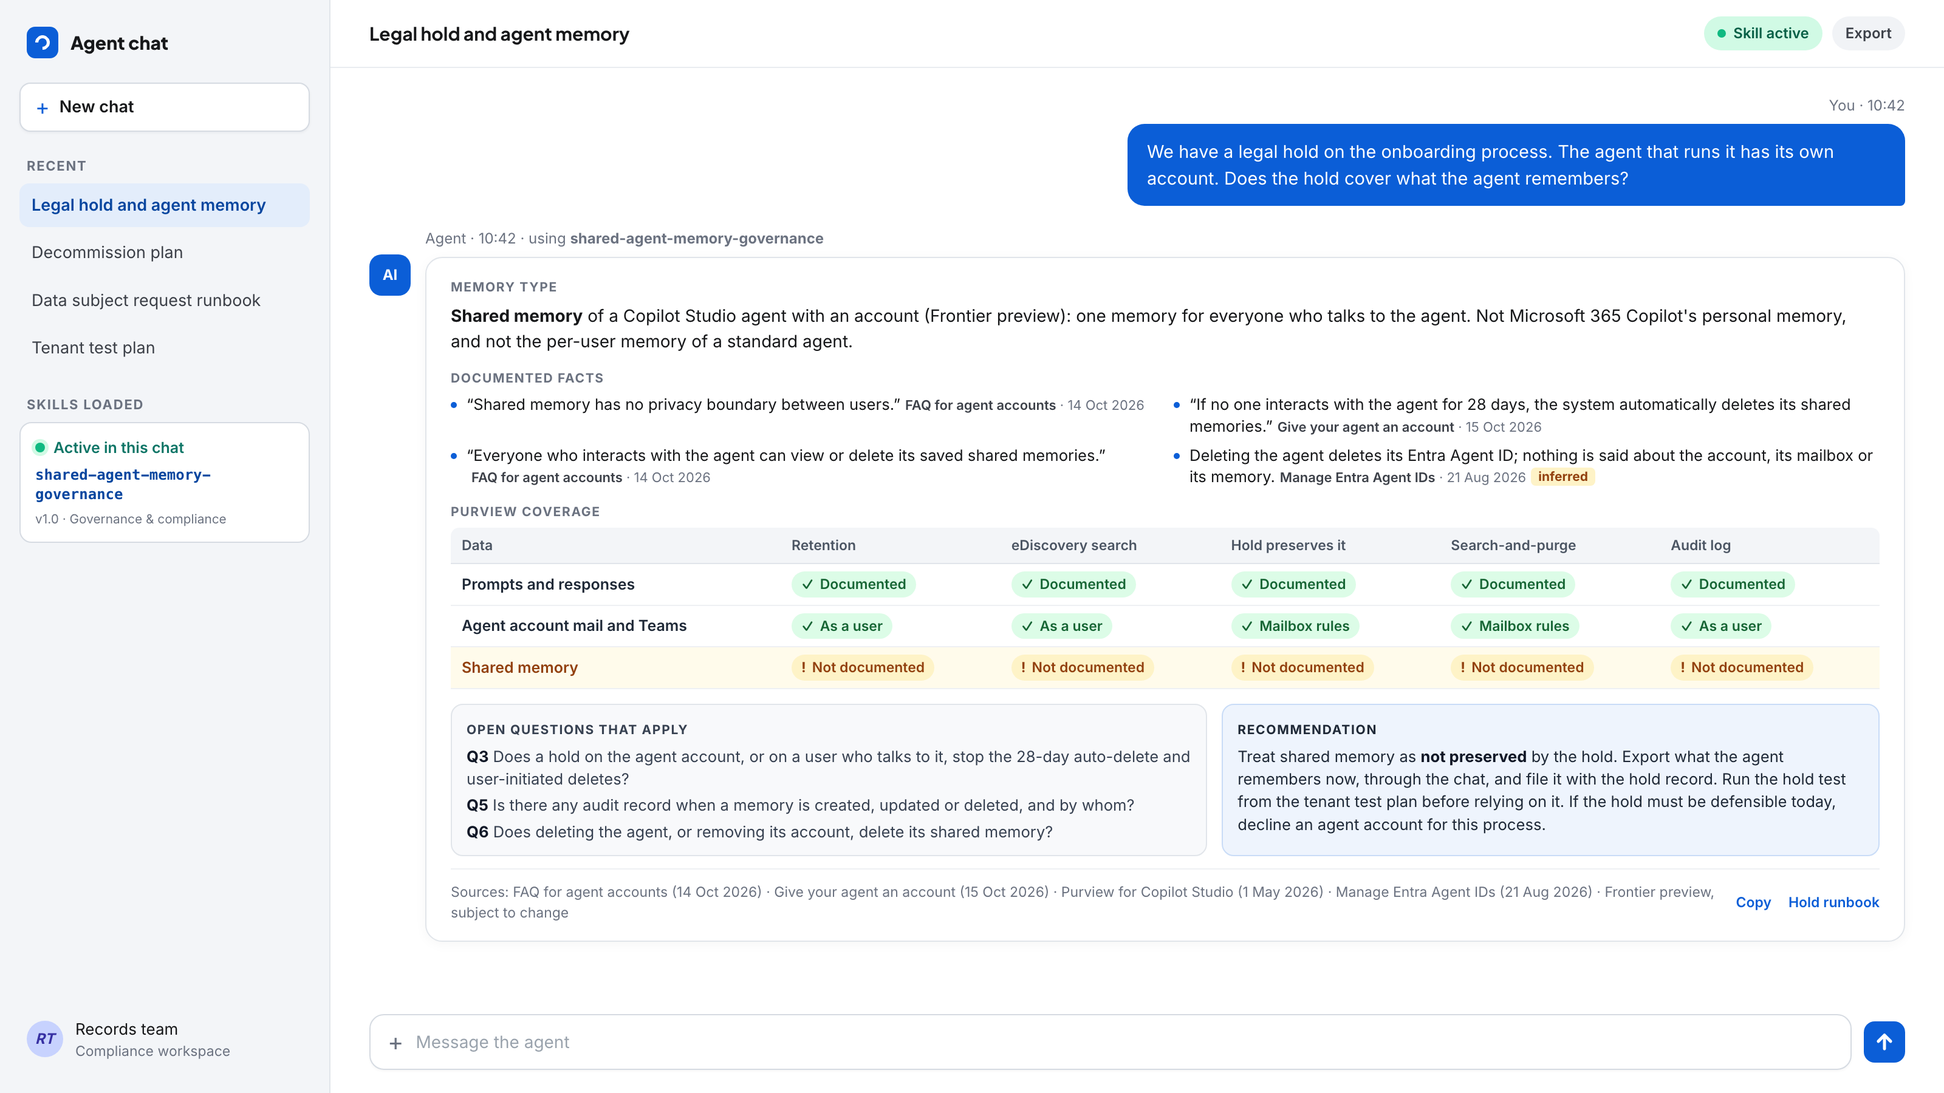
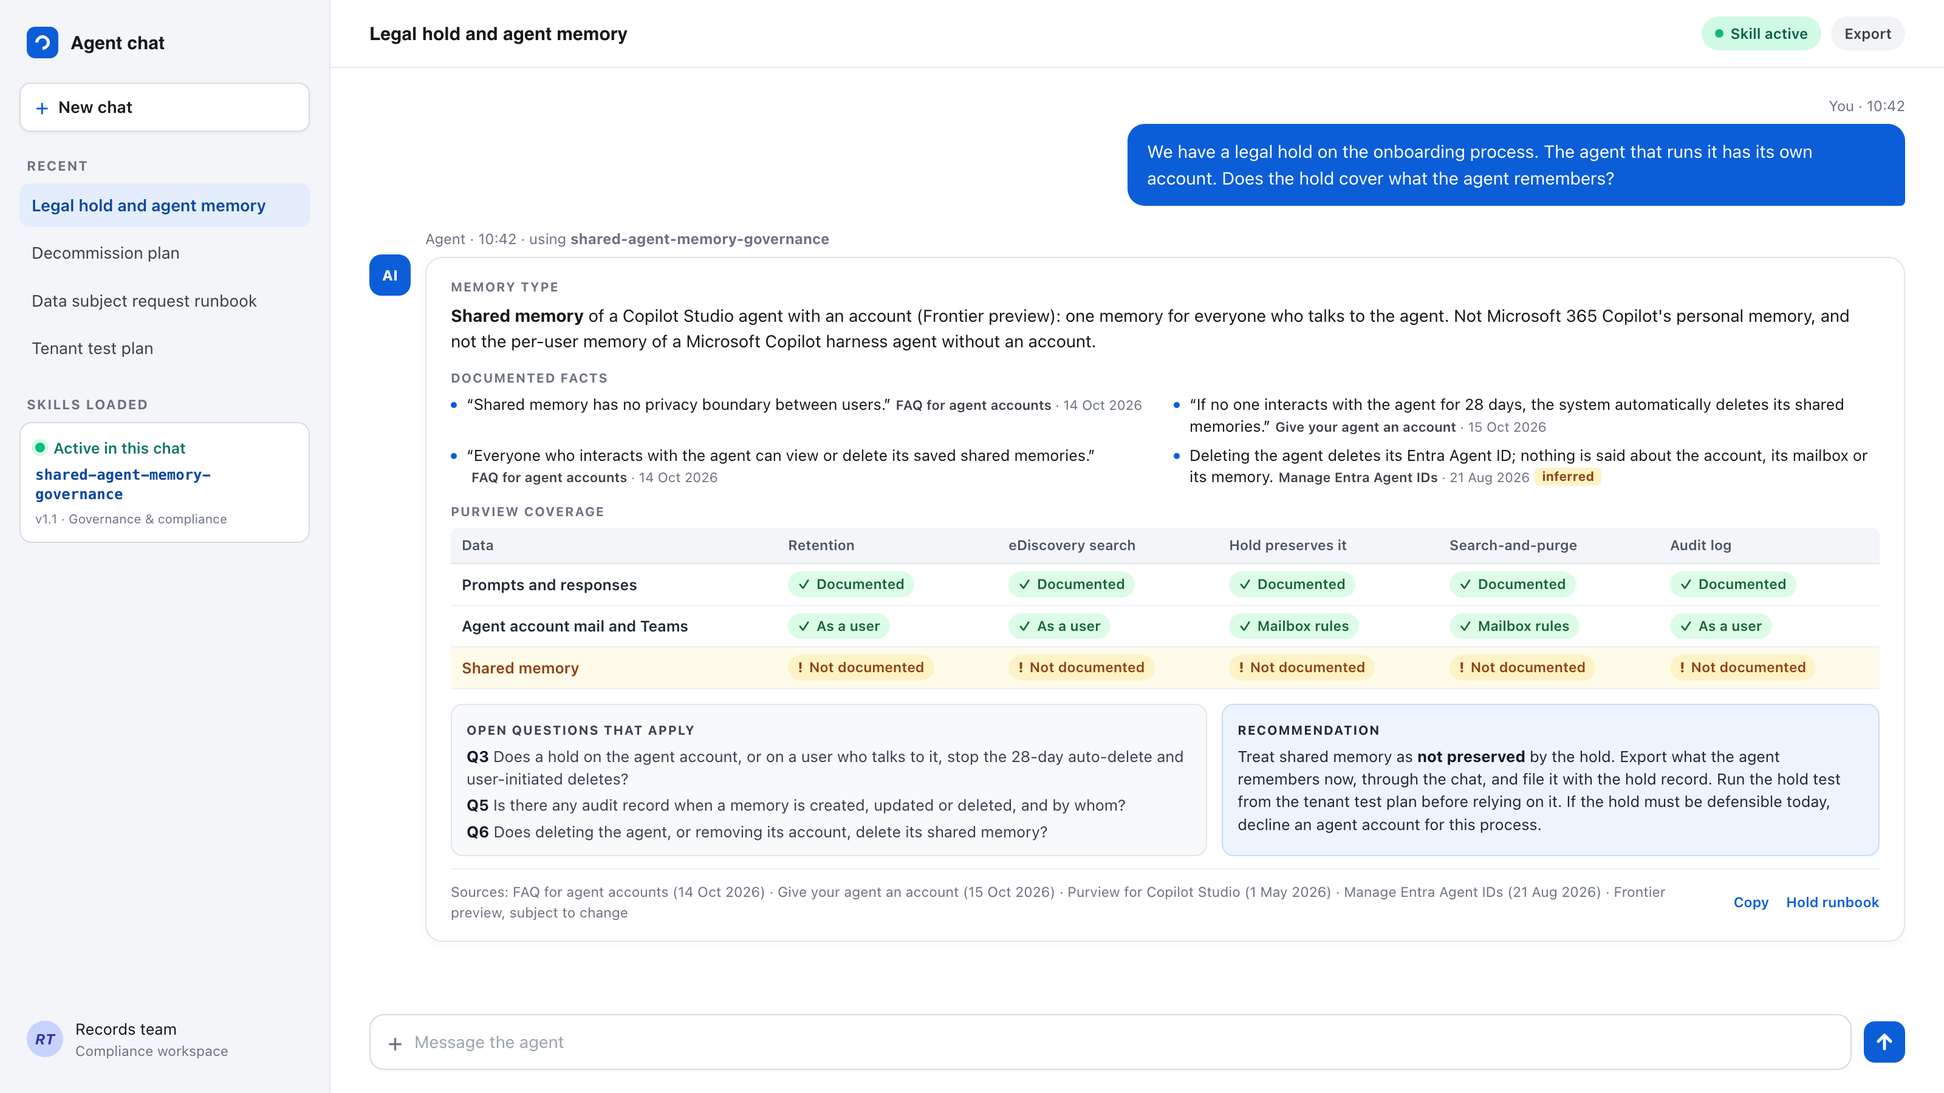
shared-agent-memory-governance 1.1: Microsoft Copilot harness rename
The GitHub Copilot harness is now the Microsoft Copilot harness (Microsoft Copilot Studio blog, 28 Oct 2026). The skill uses the new name, adds it to the current-names rule as a Copilot Studio runtime distinct from Microsoft 365 Copilot and the Microsoft Copilot experiences retention location, and keeps the old name in Learn page titles and quotes.

diff --git a/skills/shared-agent-memory-governance/references/governance-guide.md b/skills/shared-agent-memory-governance/references/governance-guide.md
@@ -25,15 +25,15 @@ The word "memory" now covers four distinct features in the Microsoft 365 and Cop
 | Feature | Scope | Where it lives (documented?) | Lifecycle | Purview coverage (documented?) |
 |---|---|---|---|---|
 | **Microsoft 365 Copilot memory** (saved memories, inferred details, custom instructions; itself in preview) | Per user | Yes: hidden `CopilotMemory` folder in the user's Exchange mailbox, item class `IPM.Contact` | Until the user deletes it; turning memory off does not delete | Partly. eDiscovery search and Graph purge documented. MC1478965 adds Data Lifecycle Management retention and inactive-version preservation; the admin doc page still says retention does not apply. No audit log entries for memory actions. |
-| **Copilot Studio memory, GitHub Copilot harness** | Per user, per agent; off in group chats and Teams channels | Partly: "a dedicated folder in Microsoft-managed storage", saved as files. The page does not name the service. | Deleted after 28 days with no interaction from that user; user can delete in chat or portal; maker cannot see it; turning memory off does not delete | Not mentioned anywhere in Purview documentation |
+| **Copilot Studio memory, Microsoft Copilot harness** | Per user, per agent; off in group chats and Teams channels | Partly: "a dedicated folder in Microsoft-managed storage", saved as files. The page does not name the service. | Deleted after 28 days with no interaction from that user; user can delete in chat or portal; maker cannot see it; turning memory off does not delete | Not mentioned anywhere in Purview documentation |
 | **Copilot Studio memory, Customer Conversation harness** | Per customer, per agent | Not stated | Structured schema, 30-day retention window | Not mentioned anywhere in Purview documentation |
 | **Shared memory, agents with an account (Frontier)** | **One memory per agent, shared by every user** | **Not stated** | Deleted after 28 days with no interaction from anyone; any user can view or delete; no opt-out; cannot be disabled without disabling agent accounts | **Not mentioned anywhere in Purview documentation** |
 
 The first row is the one Microsoft has been actively closing gaps on. The last row is the subject of this guide.
 
-The two Copilot Studio rows also sit in different preview classes. Per-user memory on the GitHub Copilot harness is labelled "a production-ready preview feature" under supplemental terms of use; shared memory is a Frontier preview, "subject to the existing preview terms of your customer agreements." Quote the right one when a reviewer asks what terms apply.
+The two Copilot Studio rows also sit in different preview classes. Per-user memory on the Microsoft Copilot harness is labelled "a production-ready preview feature" under supplemental terms of use; shared memory is a Frontier preview, "subject to the existing preview terms of your customer agreements." Quote the right one when a reviewer asks what terms apply.
 
-A naming point that compliance reviewers raise every time: the **GitHub Copilot harness** is the Copilot Studio runtime that powers agents with accounts (and per-user memory). Microsoft's harness documentation states it "is a Microsoft Copilot Studio authoring and orchestration framework, not the GitHub Copilot service," and that "customer data isn't sent to or processed by the GitHub Copilot service when agents run in Copilot Studio." Existing Copilot Studio data residency and compliance commitments apply. Memory on this harness is a Copilot Studio feature, not GitHub Copilot's memory feature, which is a separate product with its own controls.
+A naming point that compliance reviewers raise every time: the **Microsoft Copilot harness** (the GitHub Copilot harness until Microsoft renamed it on 28 October 2026; Learn pages still use the old name) is the Copilot Studio runtime that powers agents with accounts (and per-user memory). Microsoft's harness documentation states it "is a Microsoft Copilot Studio authoring and orchestration framework, not the GitHub Copilot service," and that "customer data isn't sent to or processed by the GitHub Copilot service when agents run in Copilot Studio." Existing Copilot Studio data residency and compliance commitments apply. Memory on this harness is a Copilot Studio feature, not GitHub Copilot's memory feature, which is a separate product with its own controls.
 
 ## 2. What Microsoft documents about shared memory today
 
@@ -53,7 +53,7 @@ All quotations are from the Copilot Studio agent-account pages dated 14 and 15 O
 
 **Exclusions.** The FAQ states that "shared memory excludes" a list of categories: personal details such as ID numbers, birth dates, account or card numbers, personal phone numbers and home addresses; passwords, credentials, secrets and tokens; anything someone asks it not to remember; judgments about anyone's performance or conduct; health information; protected characteristics; information already in the agent's instructions or knowledge sources; and conclusions it inferred or generalisations from a single remark. The page does not say how the exclusion is enforced. The only enforcement language on it is "guided": the agent "is guided not to bring up one person's details with someone else" and, when a memory conflicts with its instructions, "it's guided to follow the instructions and correct the memory." No admin control over the list is documented. Microsoft 365 Copilot's admin page is explicit for its own memory that "admins can't restrict what type of information is added to Copilot memory," and nothing in the Copilot Studio pages suggests a stronger control exists for shared memory. Treat the list as a statement of intended behaviour, not as a filter you can rely on or audit.
 
-**Deletion of the agent.** "When you delete an agent in Copilot Studio, Copilot Studio also deletes the associated Microsoft Entra Agent ID." Two caveats. First, nothing is said about the agent account, its mailbox, or its shared memory. Second, that sentence is on the *Manage Entra Agent IDs* page, whose header note says it "describes features used in agents or agent flows powered by the standard harness"; agents with accounts run on the GitHub Copilot harness. The agent-account page links to that page for Entra Agent IDs, so the behaviour is implied to carry over, but it is not stated for this harness.
+**Deletion of the agent.** "When you delete an agent in Copilot Studio, Copilot Studio also deletes the associated Microsoft Entra Agent ID." Two caveats. First, nothing is said about the agent account, its mailbox, or its shared memory. Second, that sentence is on the *Manage Entra Agent IDs* page, whose header note says it "describes features used in agents or agent flows powered by the standard harness"; agents with accounts run on the Microsoft Copilot harness. The agent-account page links to that page for Entra Agent IDs, so the behaviour is implied to carry over, but it is not stated for this harness.
 
 **Storage location.** Not stated. The closest documented sibling, per-user memory on the same harness, is stored as files in a per-user folder in Microsoft-managed storage. Whether shared memory uses the same mechanism scoped to the agent, or something else, is not documented.
 
@@ -86,7 +86,7 @@ These are the questions a records manager or litigation counsel will ask, with t
 | Q6 | Does deleting, unpublishing or removing the account from an agent delete its shared memory? | None (Entra Agent ID deletion is documented, on a page scoped to the standard harness) |
 | Q7 | Does a scheduled trigger run count as "interaction" for the 28-day clock, meaning an always-on agent's memory never expires? | None |
 | Q8 | Can an admin enumerate or export shared memory for a data subject request without being a user of the agent? | None |
-| Q9 | Does shared memory inherit data residency from the environment, the tenant, or the agent's mailbox? | Only the general statement that existing Copilot Studio data residency commitments apply to the GitHub Copilot harness; nothing specific to memory |
+| Q9 | Does shared memory inherit data residency from the environment, the tenant, or the agent's mailbox? | Only the general statement that existing Copilot Studio data residency commitments apply to the Microsoft Copilot harness; nothing specific to memory |
 | Q10 | What happens to an agent account, its triggers and its shared memory when the maker it "reports to" leaves the organization and their account is deleted? | None. The Agent Registry in the Microsoft 365 admin center has an "Agents without owners" view and lets an admin block or delete ownerless agents, but says nothing about the agent's mailbox or memory. The agent-account page says the reporting relationship cannot be changed during the preview. |
 
 ## 5. A governance model you can run now
@@ -138,7 +138,7 @@ Microsoft shows a notice on the agent's People card and in the first conversatio
 Purview classification and DLP act on the prompt and response text and on the agent's mail and Teams traffic. They do not act on memory. So:
 
 - keep encrypted sensitivity labels on anything the agent must never summarize, since encryption is the only hard stop documented for agents with an account;
-- consider a DLP policy for the **Microsoft 365 Copilot** location that blocks agents from processing content with chosen sensitivity labels. The Copilot Studio Purview page documents it for agents with a SharePoint knowledge source in Teams, SharePoint and Microsoft 365 Copilot; it predates agent accounts and says nothing about the GitHub Copilot harness, so test it (T1 is the place) before you rely on it;
+- consider a DLP policy for the **Microsoft 365 Copilot** location that blocks agents from processing content with chosen sensitivity labels. The Copilot Studio Purview page documents it for agents with a SharePoint knowledge source in Teams, SharePoint and Microsoft 365 Copilot; it predates agent accounts and says nothing about the Microsoft Copilot harness, so test it (T1 is the place) before you rely on it;
 - apply a DLP policy that includes the agent instance as a user, so sensitive content sent to it by email or Teams is blocked or audited before it becomes a prompt;
 - use **Data Security Posture Management** in the Purview portal, the current version, not **DSPM for AI (classic)**, which Microsoft says does not support Agent 365. Its **AI observability** page lists agent instances with their risk level and activities, and the one-click policies Microsoft lists for Copilot Studio ("Detect unethical behavior in AI apps", "Detect risky interactions in AI apps") run on prompts and responses. That is the best proxy you have for what memory might contain, because it shows what is being fed in.
 
@@ -214,7 +214,7 @@ The gap is likely to close in pieces. Watch these specific places:
 
 - **MC1478965 and successors.** The notice that brought Microsoft 365 Copilot memory under Purview retention was published 24 September 2026 and updated 22 October 2026. A follow-on notice extending retention and eDiscovery to Copilot Studio or agent memory is the thing to look for.
 - **The Copilot Studio agent-account FAQ** (`faq-agent-accounts`) and **memory overview** pages. Any sentence about storage location, admin deletion or Purview will appear there first.
-- **The Manage Entra Agent IDs page** (`admin-use-entra-agent-identities`). If its harness note widens to the GitHub Copilot harness, the deletion statement in section 2 stops being inferred.
+- **The Manage Entra Agent IDs page** (`admin-use-entra-agent-identities`). If its harness note widens to the Microsoft Copilot harness (or the GitHub Copilot harness, if Learn still uses the old name), the deletion statement in section 2 stops being inferred.
 - **The Purview pages for Copilot Studio and Agent 365** (`ai-copilot-studio`, `ai-agent-365`). Both currently date from May 2026 and predate agent accounts; a revision is the signal that coverage has been defined.
 - **The eDiscovery AI data page** (`edisc-search-copilot-data`). A new row in the item-class table for agent memory would answer Q4 outright.
 - **Your own T1 and T3 results.** Rerun them after each of the above changes.
@@ -247,3 +247,7 @@ Commentary that identified parts of the gap before this guide:
 - Rajesh Beri, [Copilot Studio Agents Keep Shared Memory, No User Opt-Out](https://www.beri.net/article/copilot-studio-agent-accounts-frontier-shared-memory-no-permission-boundary-entra-identity-ai-teammates-license), 19 Oct 2026
 - EDRM, [Ransomware logs and Copilot memory put AI agent records on the eDiscovery agenda](https://edrm.net/2026/10/ransomware-logs-and-copilot-memory-put-ai-agent-records-on-the-ediscovery-agenda/), Oct 2026
 - [New in Frontier: Delegate Business Processes to Copilot Studio Agents](https://futurework.blog/2026/10/16/new-in-frontier-delegate-business-processes-to-copilot-studio-agents/), 16 Oct 2026
+
+Other sources, read on 1 November 2026:
+
+- [The GitHub Copilot harness is now the Microsoft Copilot harness](https://www.microsoft.com/en-us/copilot/blog/copilot-studio/the-github-copilot-harness-in-copilot-studio-is-now-the-microsoft-copilot-harness/), Microsoft Copilot Studio blog, 28 Oct 2026

diff --git a/skills/shared-agent-memory-governance/SKILL.md b/skills/shared-agent-memory-governance/SKILL.md
@@ -40,7 +40,7 @@ Read [references/governance-guide.md](references/governance-guide.md) section 1.
 | User is talking about | Treatment |
 | --- | --- |
 | A Copilot Studio agent **with an account** (Frontier), "business process memory", shared across a team | This skill. Memory is per-agent, shared, undocumented in Purview. |
-| A Copilot Studio agent **without an account** on the GitHub Copilot harness | Per-user memory in Microsoft-managed storage, off in group chats and Teams channels, 28-day inactivity expiry, maker cannot see it. Also undocumented in Purview. Answer from the guide's section 1 and say shared-memory specifics do not apply. If the user hears "GitHub Copilot" and worries about data going to GitHub, give them the harness statement in section 1: it is a Copilot Studio runtime, not the GitHub Copilot service. |
+| A Copilot Studio agent **without an account** on the Microsoft Copilot harness | Per-user memory in Microsoft-managed storage, off in group chats and Teams channels, 28-day inactivity expiry, maker cannot see it. Also undocumented in Purview. Answer from the guide's section 1 and say shared-memory specifics do not apply. If the user sees the harness's former name, "GitHub Copilot harness" (Learn pages still use it), and worries about data going to GitHub, give them the harness statement in section 1: it is a Copilot Studio runtime, not the GitHub Copilot service. |
 | Customer Conversation harness memory | Structured schema, 30-day window, per customer. Out of scope; point to its own documentation. |
 | **Microsoft 365 Copilot** memory (saved memories, custom instructions, `CopilotMemory` mailbox folder) | Different product with different coverage (eDiscovery via `IPM.Contact`, retention added by MC1478965). Explain the difference; do not let the user assume parity. |
 
@@ -107,7 +107,7 @@ End with a clear recommendation and the conditions in the guide's section 7 unde
 - **Never** tell the user a hold preserves shared memory, a retention policy deletes it, or an eDiscovery search returns it. Nothing in the documentation supports those claims.
 - **Always** quote Microsoft wording from the reference guide or a live fetch of the cited page, not from memory.
 - **Always** keep the three classes of fact apart in the output: *documented* (cited page and date), *observed in tenant* (the user's own test, which tenant, when), and *not documented*. Never let a tenant observation be restated as if Microsoft documented it.
-- Use current names: **Data Security Posture Management** (not "DSPM for AI", which is the classic version and, per Microsoft, does not support Agent 365); **eDiscovery** organised around cases and data sources, with "premium eDiscovery features" for what needs E5 (not "eDiscovery (Premium)" or "(Standard)" as product names, and "custodian" only as the legal term); and the **Agent Registry** (Microsoft 365 admin center > Agents > All agents > Registry; Microsoft's overview also calls it the Agent 365 registry).
+- Use current names: **Microsoft Copilot harness** (named the GitHub Copilot harness until 28 October 2026; keep the old name in Learn page titles and quotes; a Copilot Studio runtime, not Microsoft 365 Copilot or the "Microsoft Copilot experiences" retention location); **Data Security Posture Management** (not "DSPM for AI", which is the classic version and, per Microsoft, does not support Agent 365); **eDiscovery** organised around cases and data sources, with "premium eDiscovery features" for what needs E5 (not "eDiscovery (Premium)" or "(Standard)" as product names, and "custodian" only as the legal term); and the **Agent Registry** (Microsoft 365 admin center > Agents > All agents > Registry; Microsoft's overview also calls it the Agent 365 registry).
 - **Always** keep tenant names, agent names, user names and case details the user shares out of any example you generate for reuse.
 - If the question is really about Microsoft 365 Copilot memory alone, say this skill is the wrong tool and summarise the relevant difference instead.
 

diff --git a/skills/shared-agent-memory-governance/README.md b/skills/shared-agent-memory-governance/README.md
@@ -40,9 +40,10 @@ The skill works through six steps:
 ## Limitations
 
 - Written against **Frontier preview** documentation: the agent-account pages are dated 14 and 15 October 2026, and every source was re-read on 30 October 2026. Agent accounts and shared memory are prerelease and Microsoft's pages carry the "subject to change" banner.
+- Microsoft renamed the GitHub Copilot harness to the Microsoft Copilot harness on 28 October 2026, and says the product will show the new name "over the coming weeks". As of 1 November 2026 the Learn pages cited here still use the old name, so the skill uses the new name and keeps the old one in page titles and quotes.
 - The Purview pages for Copilot Studio and Agent 365 are dated May 2026 and predate agent accounts; a revision there would change the coverage matrix.
 - One source (Message Center notice MC1478965) was read from a public archive because the Message Center requires tenant sign-in.
-- The statement that deleting an agent deletes its Entra Agent ID comes from a Microsoft page scoped to the standard harness; agents with accounts run on the GitHub Copilot harness. The skill reports it as inferred, not documented.
+- The statement that deleting an agent deletes its Entra Agent ID comes from a Microsoft page scoped to the standard harness; agents with accounts run on the Microsoft Copilot harness. The skill reports it as inferred, not documented.
 - Purview terminology moves: the skill uses the current names (Data Security Posture Management, unified eDiscovery with cases and data sources, Agent Registry) and says so when an older name is still common.
 - This is not legal advice. Verify against the cited pages before relying on the output for a compliance, legal or regulatory decision.
 
@@ -67,6 +68,7 @@ Microsoft documentation, with the date shown on the page when retrieved on 30 Oc
 - [Learn about eDiscovery](https://learn.microsoft.com/en-us/purview/edisc), 29 Jun 2026
 - [MC1478965: Microsoft Purview Data Lifecycle Management, retention for Copilot memory](https://mc.merill.net/message/MC1478965) (archived copy), published 24 Sep 2026, updated 22 Oct 2026
 - [Delegate shared business processes to agents that are more persistent and proactive with Microsoft Copilot Studio](https://www.microsoft.com/en-us/copilot/blog/copilot-studio/delegate-shared-business-processes-to-agents-that-are-more-persistent-and-proactive-with-microsoft-copilot-studio/), Microsoft Copilot Blog, 15 Oct 2026
+- [The GitHub Copilot harness is now the Microsoft Copilot harness](https://www.microsoft.com/en-us/copilot/blog/copilot-studio/the-github-copilot-harness-in-copilot-studio-is-now-the-microsoft-copilot-harness/), Microsoft Copilot Studio blog, 28 Oct 2026
 
 Commentary that identified parts of the gap before this skill:
 
@@ -88,6 +90,7 @@ Every Learn page above still showed the same date on 31 October 2026. The agent 
 | Version | Date | Comments |
 | --- | --- | --- |
 | 1.0 | October 2026 | Initial release |
+| 1.1 | November 2026 | The GitHub Copilot harness is now the Microsoft Copilot harness; the skill uses the new name and keeps the old one in Learn page titles and quotes. The gallery image no longer calls per-user memory a "standard agent" feature: it belongs to the Microsoft Copilot harness |
 
 ## Help
 
